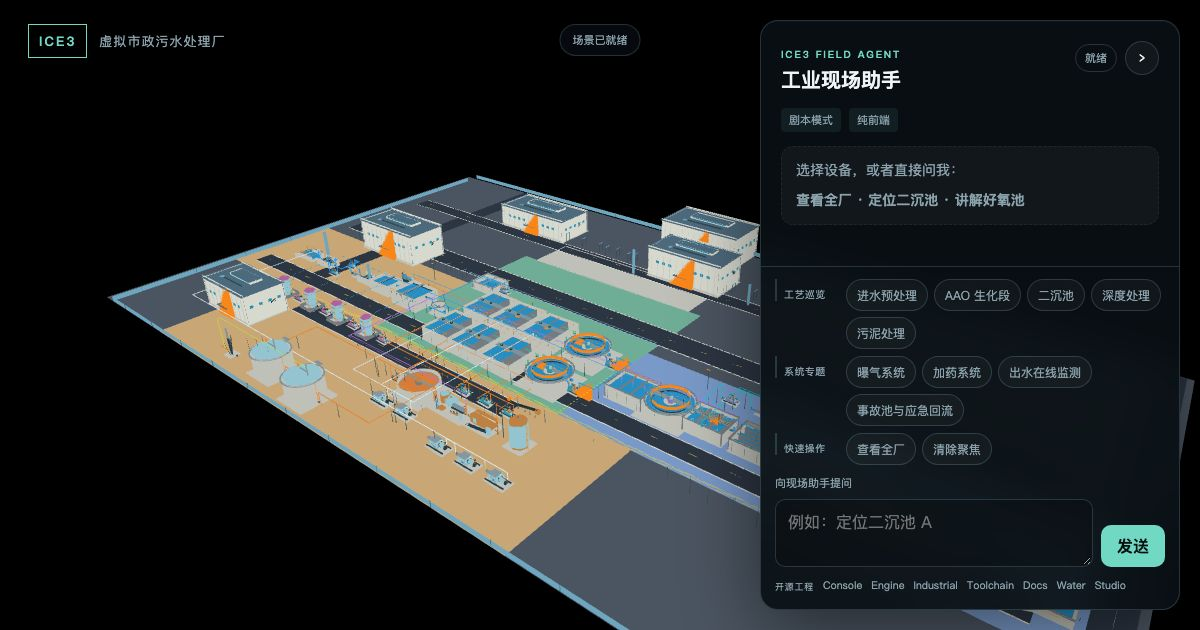
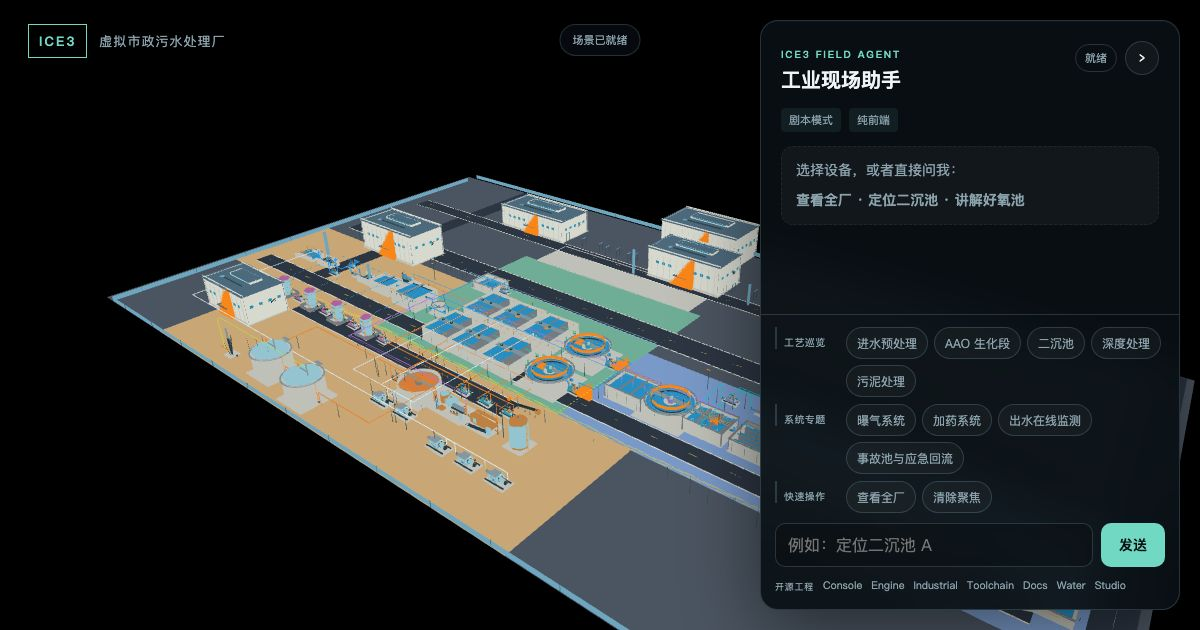
fix(agent-console): align composer controls

Changed region(s): [[0.6475, 0.4222, 0.9558, 0.8746], [0.925, 0.8143, 0.9558, 0.8746]]

diff --git a/e2e/responsive.spec.ts b/e2e/responsive.spec.ts
@@ -54,3 +54,29 @@ test('keeps all ICE3 project links visible below the composer', async ({
     panelBox!.y + panelBox!.height,
   );
 });
+
+test('keeps the composer input and send button compact and aligned', async ({
+  page,
+}) => {
+  await page.setViewportSize({ width: 390, height: 844 });
+  await page.goto('http://127.0.0.1:8110/?demo=1&autoplay=0');
+  await expect(page.locator('[data-role="scene-status"]'))
+    .toHaveText('场景已就绪', { timeout: 60_000 });
+
+  const input = page.locator('[data-role="composer-input"]');
+  const send = page.locator('[data-role="composer-submit"]');
+  const label = page.locator('label[for="agent-command"]');
+  const inputBox = await input.boundingBox();
+  const sendBox = await send.boundingBox();
+  const labelBox = await label.boundingBox();
+
+  expect(inputBox).not.toBeNull();
+  expect(sendBox).not.toBeNull();
+  expect(labelBox).not.toBeNull();
+  expect(inputBox!.height).toBeGreaterThanOrEqual(44);
+  expect(sendBox!.height).toBeGreaterThanOrEqual(44);
+  expect(Math.abs(inputBox!.height - sendBox!.height)).toBeLessThanOrEqual(1);
+  expect(inputBox!.width).toBeGreaterThan(sendBox!.width * 2.5);
+  expect(labelBox!.width).toBeLessThanOrEqual(2);
+  expect(labelBox!.height).toBeLessThanOrEqual(2);
+});

diff --git a/public/styles.css b/public/styles.css
@@ -247,41 +247,48 @@ button {
 }
 
 .composer {
-  display: grid;
-  grid-template-columns: 1fr auto;
+  display: flex;
   gap: 8px;
+  align-items: flex-end;
 }
 
 .composer label {
-  grid-column: 1 / -1;
   color: var(--muted);
-  font-size: 11px;
 }
 
 .composer textarea {
-  min-height: 48px;
-  max-height: 120px;
-  resize: vertical;
+  flex: 1;
+  min-width: 0;
+  height: 44px;
+  min-height: 44px;
+  max-height: 44px;
+  resize: none;
   border: 1px solid var(--panel-border);
   border-radius: 10px;
-  padding: 11px 12px;
+  padding: 10px 12px;
   outline: none;
   background: rgb(0 0 0 / 24%);
   color: var(--ink);
+  font-size: 16px;
+  line-height: 22px;
+  overflow-y: auto;
 }
 
 .composer textarea:focus {
   border-color: var(--accent);
+  box-shadow: 0 0 0 3px rgb(113 216 196 / 14%);
 }
 
 .composer button {
-  align-self: end;
-  height: 42px;
+  flex: none;
+  min-width: 64px;
+  height: 44px;
   padding: 0 16px;
   border: 0;
   border-radius: 10px;
   background: var(--accent);
   color: #06100e;
+  font-size: 14px;
   font-weight: 750;
   cursor: pointer;
 }

diff --git a/src/view/chat-panel.ts b/src/view/chat-panel.ts
@@ -77,9 +77,9 @@ export class ChatPanel {
         aria-live="polite"></section>
       <div class="conversation-composer" data-role="composer-area">
         <form class="composer" data-role="composer">
-          <label for="agent-command">向现场助手提问</label>
+          <label class="sr-only" for="agent-command">向现场助手提问</label>
           <textarea id="agent-command" data-role="composer-input"
-            rows="2" placeholder="例如：定位二沉池 A"></textarea>
+            rows="1" placeholder="例如：定位二沉池 A"></textarea>
           <button type="submit" data-role="composer-submit">发送</button>
         </form>
         <nav class="project-links" data-role="project-links"
